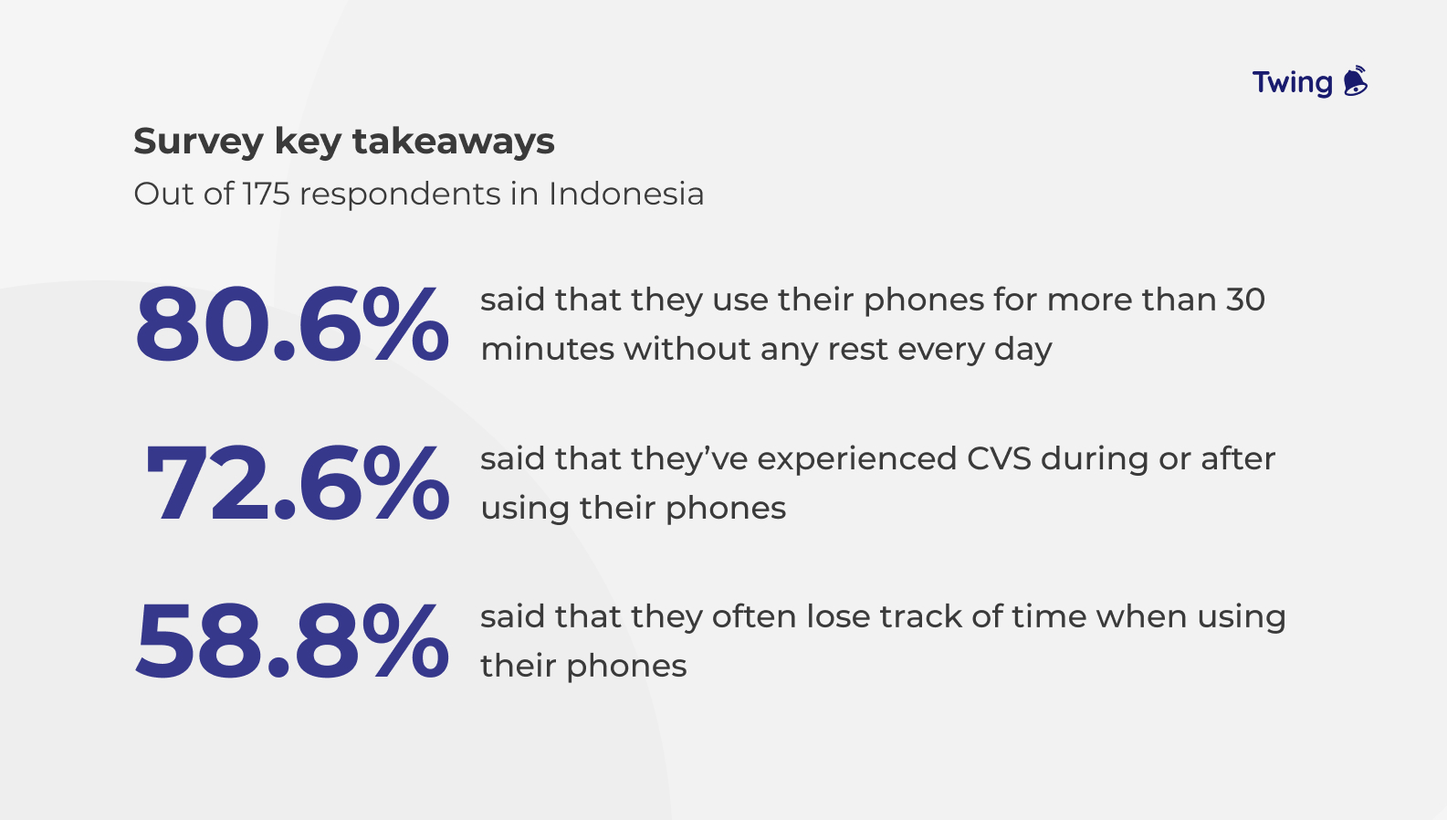
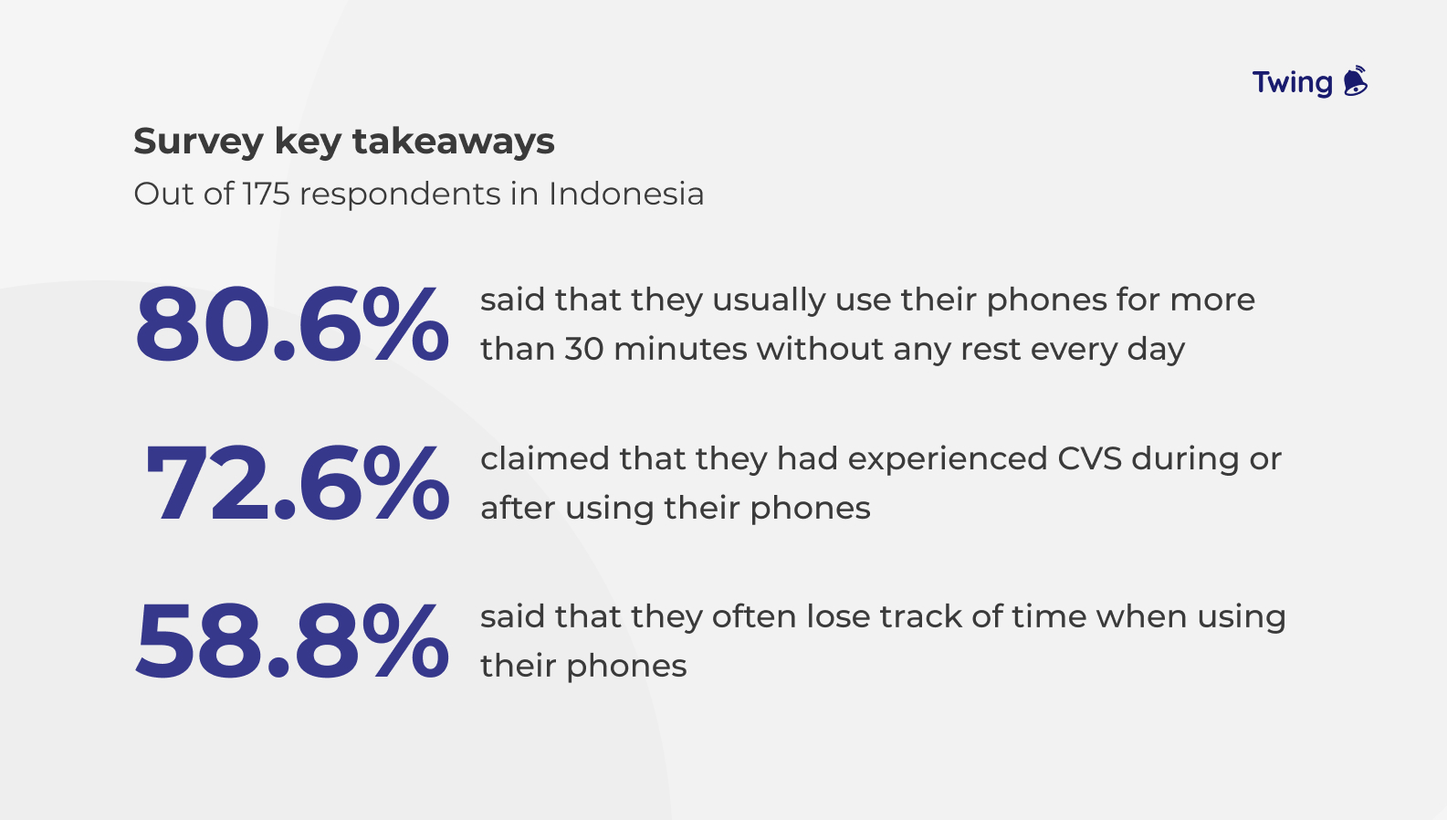
V1.0 Project added

Changed region(s): [[0.3401, 0.5301, 0.8965, 0.6548], [0.3401, 0.343, 0.8656, 0.4365]]

diff --git a/src/pages/Projects/Gemastik2021.js b/src/pages/Projects/Gemastik2021.js
@@ -1,14 +1,18 @@
 import React from 'react'
-import { ProjectContainer, ProjectWrapper, ImageContainer, Image, Sidebar, SidebarMenu, SidebarItem, SidebarLink, TextContainer, ProjectHeading, ProjectParagraph, ProjectRow, TextColumn, ProjectSection, ProjectSubHeading, SidebarHeading, ProjectMainPoints, ContentImage, ContentImageContainer, ProjectList, ProjectListItem, ListSpan, ProjectTrivia, TriviaParagraph } from './ProjectElement'
+import { ProjectContainer, ProjectWrapper, ImageContainer, Image, Sidebar, SidebarMenu, SidebarItem, SidebarLink, TextContainer, ProjectHeading, ProjectParagraph, ProjectRow, TextColumn, ProjectSection, ProjectSubHeading, SidebarHeading, ProjectMainPoints, ContentImageContainer, ProjectList, ProjectListItem, ListSpan, ProjectTrivia, TriviaParagraph } from './ProjectElement'
 import Header from '../../images/Twing Header.jpg'
 import Interview from '../../images/Twing Interview Process.jpg'
 import Process from '../../images/Twing Design Process.jpg'
-import Persona from '../../images/Twing Personas.png'
+import Persona1 from '../../images/Twing Persona 1.jpg'
+import Persona2 from '../../images/Twing Persona 2.jpg'
 import ExpertReview from '../../images/Twing Expert Review.jpg'
 import SurveyResult from '../../images/Twing Survey Result.jpg'
+import Brainstorming from '../../images/Twing Brainstorming Process.jpg'
 import ScrollToTop from '../../components/ScrollToTop'
 import { motion } from 'framer-motion'
 import Footer from '../../components/Footer'
+import mediumZoom from 'medium-zoom'
+import ImageZoom from './ImageZoom'
 
 const transition = {
     duration: 0.3,
@@ -51,6 +55,10 @@ const appearRight = {
 
 const Gemastik2021 = () => {
 
+    const zoom = React.useRef(mediumZoom({
+        margin: 24,
+    }))
+
     return (
         <motion.div initial={{ opacity:0 }} animate={{ opacity:1 }} transition={{ duration: 0.2 }} exit={{ opacity:0 }}>
             <ScrollToTop />
@@ -66,7 +74,7 @@ const Gemastik2021 = () => {
                         <SidebarHeading>Outline</SidebarHeading>
                             <SidebarMenu>
                                 <SidebarItem>
-                                    <SidebarLink to="section1" smooth={true} duration={500} spy={true} exact={true} offset={-110}>Approaching the problem</SidebarLink>
+                                    <SidebarLink to="section1" smooth={true} duration={500} spy={true} exact={true} offset={-110}>Understanding the problem</SidebarLink>
                                 </SidebarItem>
                                 <SidebarItem>
                                     <SidebarLink to="section2" smooth={true} duration={500} spy={true} exact={true} offset={-110}>The design process</SidebarLink>
@@ -86,29 +94,35 @@ const Gemastik2021 = () => {
                             <TextContainer>
                                 <ProjectHeading>Twing</ProjectHeading>
                                 <ProjectParagraph>Twing is a mobile application that aims to increase people’s awareness of Computer Vision Syndrome (CVS) and prevent it from happening. It helps people to stay productive by reducing the unnoticed side-effect of CVS. It generates real-time analytics and suggestions of its user’s behaviour while using the phone.</ProjectParagraph>
-                                {/* <ProjectTrivia>
-                                    <TriviaParagraph>Twing was designed when my two friends and I were in a competition called GEMASTIK in 2021. It’s a national IT competition held annually by Indonesia’s Ministry of Education, Culture, Research, and Technology for universities student. Our team was selected as the top 20 teams out of more than 750 teams in the UX Design category.</TriviaParagraph>
-                                </ProjectTrivia> */}
-                                <ProjectParagraph>Twing was designed when my two friends and I were in a competition called GEMASTIK in 2021. It’s a national IT competition held annually by Indonesia’s Ministry of Education, Culture, Research, and Technology for universities student. Our team was selected as the top 20 teams out of more than 700 teams in the UX Design category.</ProjectParagraph>
+                                <ProjectParagraph>Twing was designed when my two friends and I were in a competition called GEMASTIK in 2021. It’s a national IT competition held annually by Indonesia’s Ministry of Education, Culture, Research, and Technology for university students. Our team was selected as the top 20 teams out of more than 700 teams in the UX Design category.</ProjectParagraph>
                                 <ProjectList>
                                     <ProjectListItem><ListSpan>Role</ListSpan>: Team Lead, UX Researcher, UI Designer</ProjectListItem>
                                     <ProjectListItem><ListSpan>Duration</ListSpan>: 3 months (July 2021 - September 2021)</ProjectListItem>
                                     <ProjectListItem><ListSpan>Team Size</ListSpan>: 3 people</ProjectListItem>
+                                    <ProjectListItem><ListSpan>Tools</ListSpan>: Figma, Figma Jam, Google Docs, Google Forms, Google Meets, Google Sheets, Framer, Maze, UXTweak, Zoom</ProjectListItem>
                                 </ProjectList>
                                 <ProjectSection id='section1'>
-                                    <ProjectSubHeading>Approaching the problem</ProjectSubHeading>
-                                    <ProjectMainPoints>Our team identified the problem of users’ behaviour regarding increased phone usage from a survey and several interviews.</ProjectMainPoints>
-                                    <ProjectParagraph>The problem emerged after noticing that people’s intensity on the phone had increased significantly in the past few years, primarily because of the Covid-19 pandemic. If previously people used their phone mainly just to have some fun, nowadays they need more time on the phone to either work or communicate. Because of that, people are becoming more at risk of getting CVS, one of the most common health problems that people might get due to high screen time.</ProjectParagraph>
-                                    <ProjectParagraph>We conducted an online survey of 175 random Indonesians to know their behaviour when using their phones. Our main reason for conducting this survey was to validate our assumptions about high screen time and people experiencing CVS. It turned out that our assumptions were valid.</ProjectParagraph>
+                                    <ProjectSubHeading>Understanding the problem</ProjectSubHeading>
+                                    <ProjectMainPoints>Our team identified the problem of users’ behaviour regarding increased phone usage from surveys and interviews.</ProjectMainPoints>
+                                    <ProjectParagraph>The problem emerged after noticing that people’s intensity on the phone had increased significantly in the past few years, primarily because of the Covid-19 pandemic. If previously people used more time on their phones for entertainment purposes, they now need more time to work or communicate. Because of that, people are becoming more at risk of getting CVS, one of the most common health problems people might get due to high screen time that affects their productivity on their phones.</ProjectParagraph>
+                                    <ProjectParagraph>We conducted an online survey of 175 random Indonesians to know their behaviour when using their phones. Our main reason for conducting this survey was to validate our assumptions about high screen time and people experiencing CVS. It turned out that our assumptions were valid. You can see the result from the image below.</ProjectParagraph>
                                     <ContentImageContainer>
-                                        <ContentImage src={SurveyResult} />
+                                        <ImageZoom
+                                            src={SurveyResult}
+                                            alt="Twing Survey Result"
+                                            zoom={zoom.current}
+                                        />
                                     </ContentImageContainer>
-                                    <ProjectParagraph>After that, we conducted several interviews with 10 people to deepen our understanding of the problem. From the interview, we learned that one of the most common reasons people keep experiencing CVS is that they lack consciousness when using their phones, mainly when they open social media or entertainment-related applications. This lack of consciousness leads to increased screen time and, not infrequently, bad postures, leading to CVS.</ProjectParagraph>
+                                    <ProjectParagraph>After the survey, we conducted several interviews with ten people to deepen our understanding of the problem. From the interview, we learned that one of the most common reasons people keep experiencing CVS is that they lack consciousness when using their phones, mainly when they open social media or entertainment-related applications. This lack of consciousness leads to increased screen time and, not infrequently, bad postures, leading to CVS.</ProjectParagraph>
                                     <ProjectTrivia>
-                                        <TriviaParagraph>Most of the respondents claimed that they have been experiencing CVS. But not all of them are aware of what’s happening. They just knew that it interfered with their daily life, even when they didn’t use their phones.</TriviaParagraph>
+                                        <TriviaParagraph>Most of the respondents claimed that they often experience CVS when using or after using their phones. But not all of them are aware of what’s happening. They just knew that it interfered with their daily life.</TriviaParagraph>
                                     </ProjectTrivia>
                                     <ContentImageContainer>
-                                        <ContentImage src={Interview} />
+                                        <ImageZoom
+                                            src={Interview}
+                                            alt="Twing User Interview Process"
+                                            zoom={zoom.current}
+                                        />
                                     </ContentImageContainer>
                                 </ProjectSection>
                                 <ProjectSection id='section2'>
@@ -116,33 +130,70 @@ const Gemastik2021 = () => {
                                     <ProjectMainPoints>We used the User-Centered Design (UCD) methodology and approach during the whole process.</ProjectMainPoints>
                                     <ProjectParagraph>The User-Centered Design methodology was used to guide us through the design process. We tried to keep users’ participation as an essential part of the journey to match their needs and fulfil their expectations. To do that, we used several frameworks to help us throughout the whole process, including tree testing, card sorting, usability testing, and SUS questionnaires.</ProjectParagraph>
                                     <ContentImageContainer>
-                                        <ContentImage src={Process} />
+                                    <ImageZoom
+                                            src={Process}
+                                            alt="Twing Design Process"
+                                            zoom={zoom.current}
+                                        />
                                     </ContentImageContainer>
-                                    <ProjectParagraph>We categorised the users into two groups of personas based on the survey and interview that we’ve conducted earlier. The first group represents people who mainly use their phones to fill their free time. The second group represents people who mainly use their phones to communicate or do other work-related activities. These two groups were our two independent sample groups for the remaining steps.</ProjectParagraph>
+                                    <ProjectParagraph>We categorised the users into two groups of personas based on the survey and interview that we’ve conducted earlier.  These two groups had problems that they were most likely to face. The first group represents people who mainly use their phones to fill their free time. The second group represents people who mainly use their phones to communicate or do other work-related activities.</ProjectParagraph>
                                     <ContentImageContainer>
-                                        <ContentImage src={Persona} />
+                                        <ImageZoom
+                                            src={Persona1}
+                                            alt="Twing Persona 1"
+                                            zoom={zoom.current}
+                                        />
+                                    </ContentImageContainer>
+                                    <ContentImageContainer>
+                                        <ImageZoom
+                                            src={Persona2}
+                                            alt="Twing Persona 2"
+                                            zoom={zoom.current}
+                                        />
                                     </ContentImageContainer>
                                 </ProjectSection>
                                 <ProjectSection id='section3'>
                                     <ProjectSubHeading>Specifying user requirements</ProjectSubHeading>
                                     <ProjectMainPoints>Our solution was to develop an integrated notification system that would notify users if they didn’t use their phones properly. Users and experts from different fields have helped us to evaluate this solution.</ProjectMainPoints>
-                                    <ProjectParagraph>Based on our previous findings, we decided to develop a solution to help people maintain their awareness when using their phones. The solution was implemented with an integrated notification system that came with the application. The system will notify the user at a certain time and conditions, precisely when the phone isn’t being used properly (according to health recommendations for CVS prevention). The conditions include such factors as viewing distance, brightness contrast, time off from phone, etc.</ProjectParagraph>
+                                    <ProjectParagraph>After the data collection process, we received a lot of feedback from our respondents, so we needed to break down the problems and sort out our priorities. We used several tools, such as an affinity diagram and a value-effort matrix. We chose these tools because they could help us to see a more holistic view of the problems.</ProjectParagraph>
+                                    <ContentImageContainer>
+                                        <ImageZoom
+                                            src={Brainstorming}
+                                            alt="Twing Brainstorming Process"
+                                            zoom={zoom.current}
+                                        />
+                                    </ContentImageContainer>
+                                    <ProjectParagraph>We decided to choose two out of five main problems that we had found. We chose these problems because they were the ones that aligned with our mission, which was to help the users solve their problems themselves since CVS has always been about digital users’ behaviour. These problems include:</ProjectParagraph>
+                                    <ProjectList>
+                                        <ProjectListItem>People often lose track of time when using their phones.</ProjectListItem>
+                                        <ProjectListItem>It’s hard to form good smartphone habits alone because of the lack of consciousness.</ProjectListItem>
+                                    </ProjectList>
+                                    <ProjectParagraph>After we sorted the problems, we mapped our solutions into them. We did this by comparing our solutions with the existing ones and their limitations. After several brainstorming sessions and a lot of “How Might We?”s, we decided to go forth with these solutions:</ProjectParagraph>
+                                    <ProjectList>
+                                        <ProjectListItem>Remind the users of their smartphone usage time over time.</ProjectListItem>
+                                        <ProjectListItem>Remind the users whenever they use their smartphones in the ‘wrong way.’</ProjectListItem>
+                                    </ProjectList>
                                 </ProjectSection>
                                 <ProjectSection id='section4'>
                                     <ProjectSubHeading>The result</ProjectSubHeading>
-                                    <ProjectMainPoints>Our solution was to develop an integrated notification system that would notify users if they didn’t use their phones properly. Users and experts from different fields have helped us to evaluate this solution.</ProjectMainPoints>
+                                    <ProjectMainPoints>Our solution was to develop an integrated notification system that would notify users if they didn’t use their phones properly. Users and experts from different fields helped us to evaluate this solution.</ProjectMainPoints>
                                     <ProjectParagraph>Based on our previous findings, we decided to develop a solution to help people maintain their awareness when using their phones. The solution was implemented with an integrated notification system that came with the application. The system will notify the user at a certain time and conditions, precisely when the phone isn’t being used properly (according to health recommendations for CVS prevention). The conditions include such factors as viewing distance, brightness contrast, time off from phone, etc.</ProjectParagraph>
                                     <ProjectTrivia>
-                                        <TriviaParagraph>Most respondents said that the one thing that could distract them from their phones when they lose consciousness, besides their parent’s scold, is push notifications, like Google Calendar’s.</TriviaParagraph>
+                                        <TriviaParagraph>Most respondents said that the one thing that could distract them from their phones when they lose consciousness, besides their parent’s scolding, is push notifications, like Google Calendar.</TriviaParagraph>
                                     </ProjectTrivia>
-                                    <ProjectParagraph>We evaluated our solution using usability testing for ten people from both personas. We also gathered feedback from three experts from different fields of study that correspond with our solution, including a UX researcher, an ophthalmologist, and a psychologist. The evaluation process was conducted two times, in the first and second iteration.</ProjectParagraph>
+                                    <ProjectParagraph>Finally, we evaluated our solution using usability testing for ten people from both personas. We also gathered feedback from three experts from different fields of study that correspond with our solution, including a UX researcher, an ophthalmologist, and a psychologist. The evaluation process was conducted two times, in the first and second iteration.</ProjectParagraph>
                                     <ContentImageContainer>
-                                        <ContentImage src={ExpertReview} />
+                                        <ImageZoom
+                                            src={ExpertReview}
+                                            alt="Twing Expert Review"
+                                            zoom={zoom.current}
+                                        />
                                     </ContentImageContainer>
-                                    <ProjectParagraph>From this journey, I learned a lot of new things, mainly because we didn’t win the competition. But I’m glad that I’ve found the joy in doing research. Here are some of the main takeaways that I’ve learned.</ProjectParagraph>
+                                    <ProjectParagraph>From this journey, I learned a lot of new things, mainly because we didn’t win the competition (lol). But I’m glad that I’ve found the joy in doing research. Here are some of the main takeaways that I’ve learned.</ProjectParagraph>
                                     <ProjectList>
                                         <ProjectListItem><ListSpan>User participation and feedback are mandatory, but the researcher is the one who has control over his research.</ListSpan> I was quite overwhelmed at first because our team received a lot of feedback from our users. Knowing what to put and what not to put into the design is necessary.</ProjectListItem>
                                         <ProjectListItem><ListSpan>Assumptions must be validated</ListSpan> (or at least supported). We did a lot of brainstorming throughout the journey, resulting in many assumptions about the solution, which we thought was perfect for the user. That kind of thought could lead to biases.</ProjectListItem>
+                                        <ProjectListItem><ListSpan>Think in the present.</ListSpan> However, we didn’t. We thought that ideas were everything that mattered in designing a product. In reality, not all ideas could be implemented (yet) because of technological limitations. Thinking in the present and knowing the technology that we’ll use are mandatory in product design.</ProjectListItem>
                                     </ProjectList>
                                 </ProjectSection>
                             </TextContainer>

diff --git a/src/components/AboutSection/index.js b/src/components/AboutSection/index.js
@@ -48,7 +48,7 @@ const AboutSection = () => {
                         <TextWrapper>
                             <Heading>Hello!</Heading>
                             <Paragraph>I’m a third-year information system student and a junior UX researcher. I’m passionate about making people’s lives better and easier through technology. UX research, for me,  is the right place to channel my passion.</Paragraph>
-                            <Paragraph>This website is intended to showcase my prior UX research experiences. There’s still a lot of room for improvement in my previous projects, so any feedbacks are super welcomed (and needed!). Reach out to me via <LinkSpan href="https://www.linkedin.com/in/locitaresmi/" target="_blank">my LinkedIn</LinkSpan> or <LinkSpan href="mailto:locitaresmi@gmail.com">email me directly to locitaresmi@gmail.com</LinkSpan>.</Paragraph>
+                            <Paragraph>I made this website to showcase my prior UX research experiences. There’s still a lot of room for improvement in my previous projects, so any feedback is super welcomed (and needed!). Reach out to me via <LinkSpan href="https://www.linkedin.com/in/locitaresmi/" target="_blank">my LinkedIn</LinkSpan> or <LinkSpan href="mailto:locitaresmi@gmail.com">email me directly to locitaresmi@gmail.com</LinkSpan>.</Paragraph>
                             <Paragraph>I also share my thoughts sometimes on <LinkSpan href="https://locitaresmi.medium.com/" target="_blank">Medium</LinkSpan>.</Paragraph>
                         </TextWrapper>
                         {/* <SocialMediaRow>

diff --git a/src/pages/Projects/ProjectElement.js b/src/pages/Projects/ProjectElement.js
@@ -54,18 +54,18 @@ export const ContentImageContainer = styled.div`
     }
 `
 
-export const ContentImage = styled.img`
-    max-width: inherit;
-    /* height: inherit; */
-    margin: 0;
-    padding: 0;
-    cursor: zoom-in;
+// export const ContentImage = styled.img`
+//     max-width: inherit;
+//     /* height: inherit; */
+//     margin: 0;
+//     padding: 0;
+//     cursor: zoom-in;
 
-    /* @media screen and (min-width:768px) {
-        max-height: inherit;
-    } */
+//     /* @media screen and (min-width:768px) {
+//         max-height: inherit;
+//     } */
 
-`
+// `
 export const TextContainer = styled.div`
     margin-right: auto;
     margin-left: auto;
@@ -211,6 +211,7 @@ export const SidebarHeading = styled.h3`
 
 export const ProjectList = styled.ul`
     list-style-position: inside;
+    margin-bottom: 24px;
 `
 
 export const ProjectListItem = styled.li`

diff --git a/src/components/ProjectSection/index.js b/src/components/ProjectSection/index.js
@@ -82,7 +82,7 @@ const ProjectSection = ({id, projectYear, projectTitle, projectIssuer, projectIm
                                 <ImgOverlay>
                                     {/* <ProductName>{productName}</ProductName>
                                     <ProductDescription>{productDescription}</ProductDescription> */}
-                                    <AdditionalDescription>Click to view project (Coming soon!)</AdditionalDescription>
+                                    <AdditionalDescription>Click to view project</AdditionalDescription>
                                 </ImgOverlay>
                             </ProjectLink>
                         </ImgWrap>

diff --git a/src/App.js b/src/App.js
@@ -29,7 +29,7 @@ function App() {
           <Route path="/" component={Home} exact />
           <Route path="/about" component={AboutPage} exact />
           <Route path="/resume" component={ResumePage} exact />
-          {/* <Route path="/2021-Twing" component={Gemastik2021} exact /> */}
+          <Route path="/2021-Twing" component={Gemastik2021} exact />
         </Switch>
       </AnimatePresence>
     </>

diff --git a/src/pages/Projects/ImageZoom.js b/src/pages/Projects/ImageZoom.js
@@ -1,0 +1,13 @@
+import React from 'react'
+
+function ImageZoom({ zoom, src, alt, background }) {
+    const zoomRef = React.useRef(zoom.clone({ background }))
+
+    function attachZoom(image) {
+    zoomRef.current.attach(image)
+    }
+
+    return <img style={{zIndex:100}} src={src} alt={alt} ref={attachZoom} />
+}
+
+export default ImageZoom

diff --git a/src/components/ProjectSection/Data.js b/src/components/ProjectSection/Data.js
@@ -1,5 +1,5 @@
 export const project1 = {
-    id: '#',
+    id: '2021-Twing',
     projectYear: 2021,
     projectTitle: 'GEMASTIK 14 Final UX Design',
     projectIssuer: 'Ministry of Education, Culture, Research and Technology of Indonesia',

diff --git a/src/App.css b/src/App.css
@@ -51,6 +51,15 @@ h3 {
   color: #393232;
 }
 
+img {
+  max-width: inherit;
+  height: auto;
+}
+
+.medium-zoom-overlay {
+  margin-top: 40vh;
+}
+
 @media screen and (max-width: 768px) {
   h1 {
     font-size: 40px;
